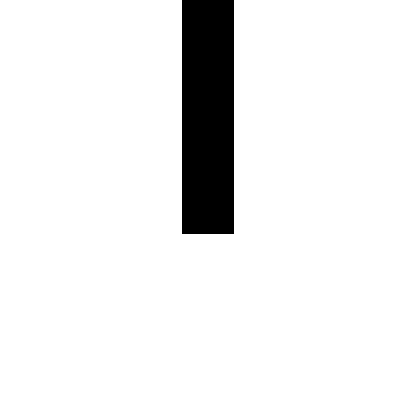
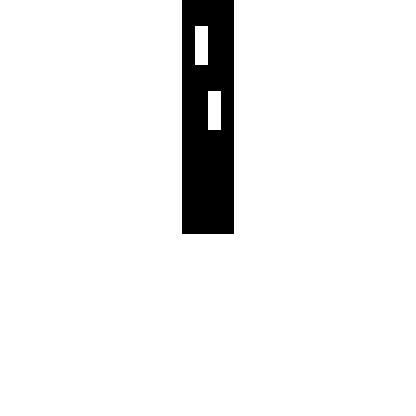
Fixed piano display and black keys

Changed region(s): [[0.5, 0.2188, 0.5312, 0.3125], [0.4688, 0.0625, 0.5, 0.1562]]

diff --git a/InteractivePiano/Game1.cs b/InteractivePiano/Game1.cs
@@ -25,24 +25,41 @@ namespace InteractivePiano
             _graphics = new GraphicsDeviceManager(this);
             Content.RootDirectory = "Content";
             IsMouseVisible = true;
-            piano = new Piano("q2we4r5ty7u8i9op-[=");
+            piano = new Piano();
             audio = Audio.Instance;
             newKey = false;
             pianoKeys = new List<PianoKeySprite>();
         }
 
+
+        private bool isBlack(int i) {
+            if(i == 1 || i == 4 || i == 6 || i == 9 || i == 11 || i == 13 || i == 16 || i == 18 || i == 21 || 
+                i == 23 || i == 25 || i == 28 || i == 30 || i == 33 || i == 35) 
+            {
+                return true;
+            }
+            return false;
+        }
+
         protected override void Initialize()
         {
+
+
             // TODO: Add your initialization logic here
             int incrementPos = 0;
             char[] pianoChars = piano.Keys.ToCharArray();
             for(int i =0; i<pianoChars.Length; i++) {
                 PianoKeySprite ps;
-                if(i % 2 == 0) {
-                    ps = new PianoKeySprite(this, pianoChars[i], "white", incrementPos, 0, 200, 200);
+                if(isBlack(i)) {
+                    Debug.WriteLine("make black");
+                    ps = new PianoKeySprite(this, pianoChars[i], "black", incrementPos, 0, 200, 200);
+                    incrementPos += ps.Width / 4;
                 } else {
-                    ps =new PianoKeySprite(this, pianoChars[i], "black", incrementPos, 0, 200, 200);
-                    incrementPos += ps.Width / 4; 
+                    Debug.WriteLine("make white");
+                    ps = new PianoKeySprite(this, pianoChars[i], "white", incrementPos, 0, 200, 200);
+                    if(!(isBlack(i + 1))) {
+                        incrementPos += ps.Width / 4;
+                    } 
                 }
                 pianoKeys.Add(ps);
                 Components.Add(ps);
@@ -70,6 +87,11 @@ namespace InteractivePiano
             t.Start();
 
             base.Initialize();
+
+            _graphics.PreferredBackBufferHeight =  GraphicsDevice.DisplayMode.Height;
+            _graphics.PreferredBackBufferWidth = GraphicsDevice.DisplayMode.Width;
+            _graphics.IsFullScreen = true;
+            _graphics.ApplyChanges();
         }
 
         protected override void LoadContent()
@@ -88,14 +110,27 @@ namespace InteractivePiano
 
             if(Keyboard.GetState().GetPressedKeyCount() > 0) {
                 if(prevKeyboard != Keyboard.GetState()) {
+                    foreach(PianoKeySprite key in pianoKeys) {
+                        key.Release();
+                    }
                     newKey = true;
                     Keys[] pressedKeys = Keyboard.GetState().GetPressedKeys();
                     foreach(Keys key in pressedKeys) {
-                        piano.StrikeKey(key.ToString().ToLower()[key.ToString().Length - 1]);
+                        char hitKey = key.ToString().ToLower()[key.ToString().Length - 1];
+                        piano.StrikeKey(hitKey);
+                        foreach(PianoKeySprite pressKey in pianoKeys) {
+                            if(pressKey.Note == hitKey) {
+                                pressKey.Press();
+                            } 
+                        }
                     }
                 }
                 else {
                     newKey = false;
+                }
+            } else {
+                foreach(PianoKeySprite key in pianoKeys) {
+                    key.Release();
                 }
             }
             prevKeyboard = Keyboard.GetState();

diff --git a/InteractivePiano/PianoKeySprite.cs b/InteractivePiano/PianoKeySprite.cs
@@ -15,6 +15,7 @@ namespace InteractivePiano {
     public int Y {get;}
     public int Width{get;}
     public int Height {get;}
+    private bool pressed;
 
     public PianoKeySprite(InteractivePianoGame game, char note, string color, int x, int y, int width, int height): base(game){
       _game = game;
@@ -28,6 +29,7 @@ namespace InteractivePiano {
 
       Width = width;
       Height = height;
+      pressed = false;
     }
 
     protected override void LoadContent() {
@@ -42,16 +44,34 @@ namespace InteractivePiano {
 
     public override void Update(GameTime gameTime)
     {
+      // _spriteBatch.Begin();
+      // if(pressed) {
+      //   _spriteBatch.Draw(_keyTexture, new Rectangle(X, Y, Width, Height), Color.Red);
+      // } else {
+      //   _spriteBatch.Draw(_keyTexture, new Rectangle(X, Y, Width, Height), Color.White);
+      // }
+      // _spriteBatch.End();
+      // base.Draw(gameTime);
       base.Update(gameTime);
     }
 
     public override void Draw(GameTime gameTime)
    {  
       _spriteBatch.Begin();
-      //_spriteBatch.Draw(_keyTexture, new Vector2(_x, _y), Color.White);
-      _spriteBatch.Draw(_keyTexture, new Rectangle(X, Y, Width, Height), Color.White);
+      if(pressed) {
+        _spriteBatch.Draw(_keyTexture, new Rectangle(X, Y, Width, Height), Color.Red);
+      } else {
+        _spriteBatch.Draw(_keyTexture, new Rectangle(X, Y, Width, Height), Color.White);
+      }
       _spriteBatch.End();
       base.Draw(gameTime);
+    }
+
+    public void Press() { 
+      pressed = true;
+    }
+    public void Release() {
+      pressed = false;
     }
   }
 }
